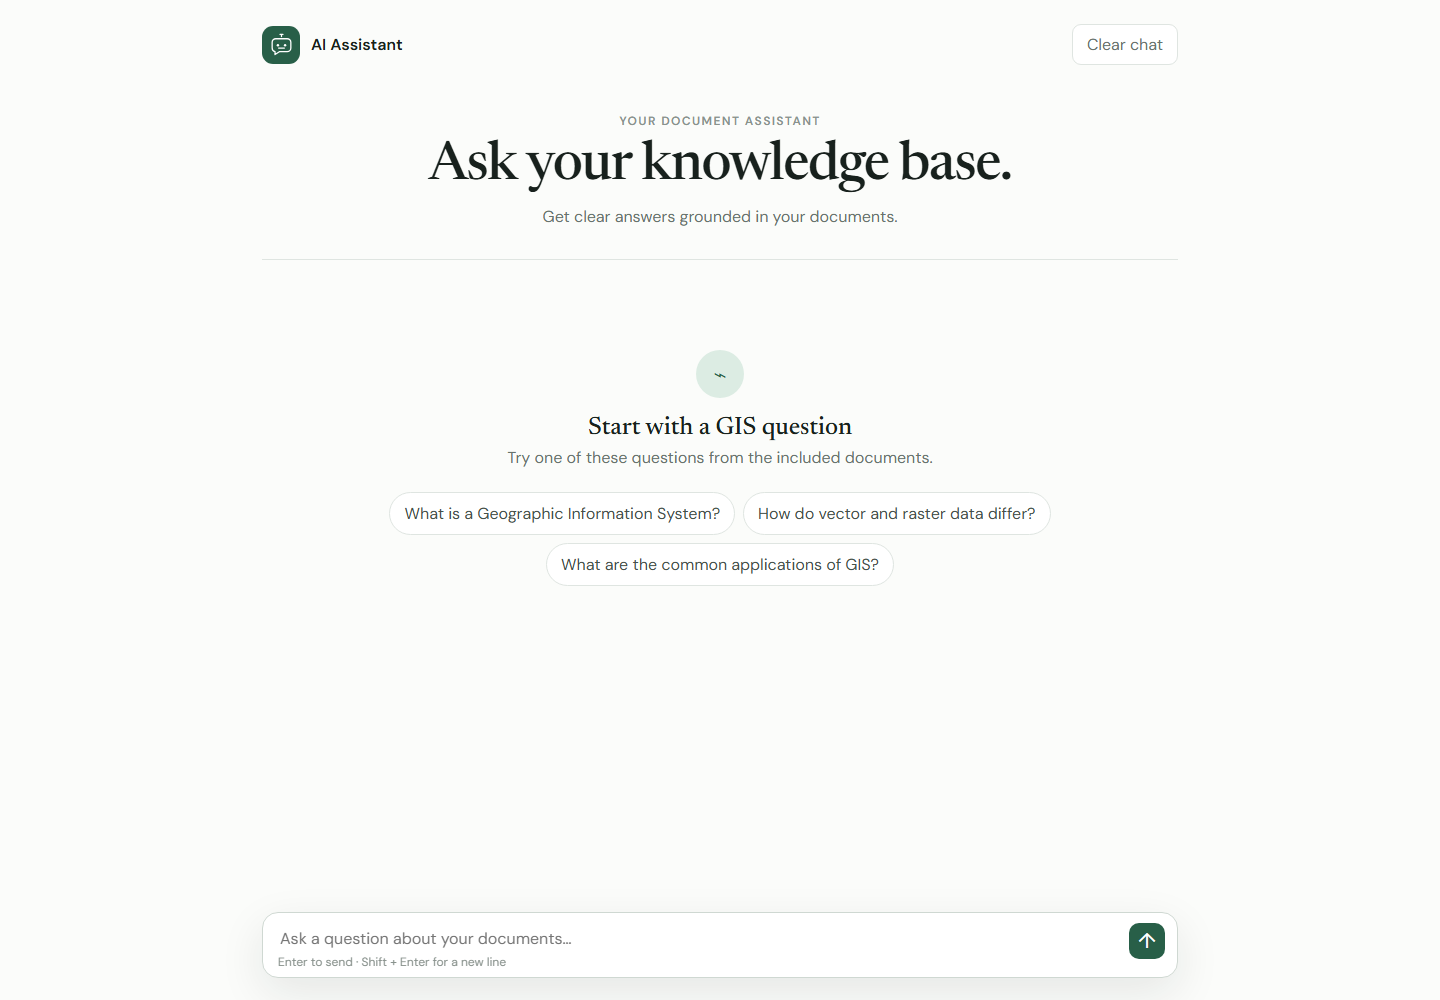
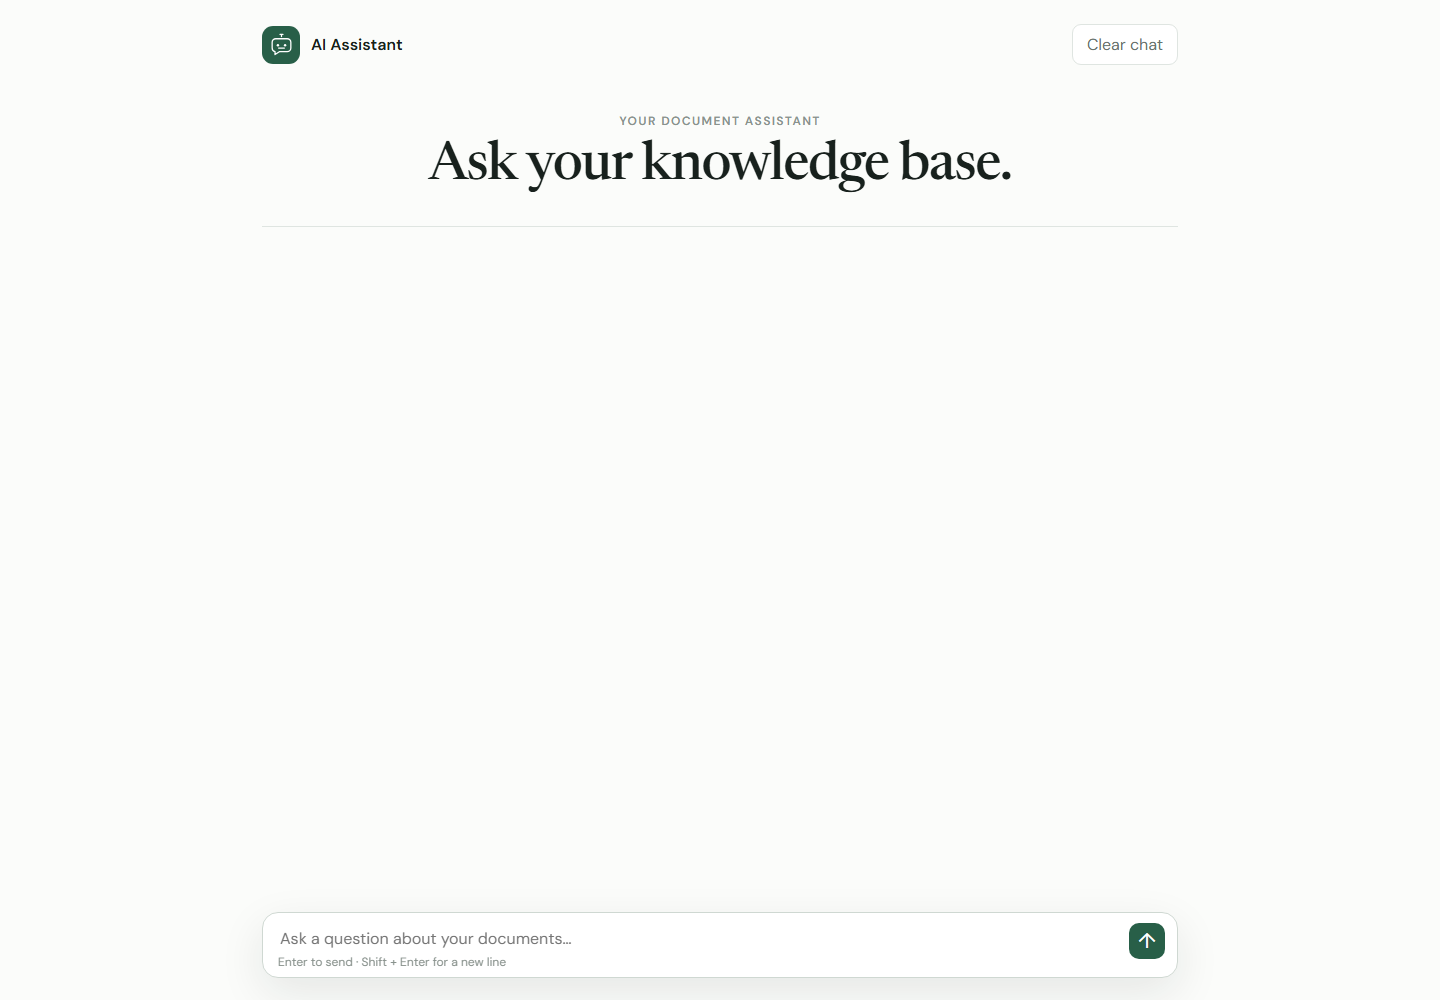
Simplify assistant welcome screen

diff --git a/advanced rag/frontend/index.html b/advanced rag/frontend/index.html
@@ -19,12 +19,8 @@
       </a>
       <button id="clear" class="clear-button" type="button" aria-label="Clear chat">Clear chat</button>
     </div>
-    <header><div class="hero-copy"><p class="eyebrow">Your document assistant</p><h1>Ask your knowledge base.</h1><p class="lede">Get clear answers grounded in your documents.</p></div></header>
-    <section id="conversation" class="conversation" aria-live="polite">
-      <div id="empty" class="empty"><div class="orb">⌁</div><h2>Start with a GIS question</h2><p>Try one of these questions from the included documents.</p>
-        <div class="suggestions"><button>What is a Geographic Information System?</button><button>How do vector and raster data differ?</button><button>What are the common applications of GIS?</button></div>
-      </div>
-    </section>
+    <header><div class="hero-copy"><p class="eyebrow">Your document assistant</p><h1>Ask your knowledge base.</h1></div></header>
+    <section id="conversation" class="conversation" aria-live="polite"></section>
     <form id="chatForm" class="composer"><textarea id="question" rows="1" maxlength="2000" placeholder="Ask a question about your documents…" required></textarea><button id="send" type="submit">↑</button><p>Enter to send · Shift + Enter for a new line</p></form>
   </main>
 </div><script src="/static/app.js" defer></script>

diff --git a/advanced rag/frontend/styles.css b/advanced rag/frontend/styles.css
@@ -86,17 +86,7 @@ header {
 .hero-copy { max-width: 720px; margin: 0 auto; }
 .eyebrow { margin: 0 0 10px; color: #89928d; font-size: 12px; font-weight: 600; letter-spacing: .12em; text-transform: uppercase; }
 h1 { margin: 0; font: 500 clamp(34px, 5vw, 54px)/1.02 "Newsreader", serif; letter-spacing: -.025em; }
-.lede { margin: 12px 0 0; color: var(--muted); font-size: 16px; }
-
 .conversation { padding: 34px 0; display: grid; gap: 24px; }
-.empty { text-align: center; padding: 56px 10px; }
-.orb { margin: auto; width: 48px; height: 48px; display: grid; place-items: center; color: var(--green); background: var(--mint); border-radius: 50%; font-size: 23px; }
-h2 { margin: 18px 0 6px; font: 500 25px "Newsreader", serif; }
-.empty p { margin: 0; color: var(--muted); }
-.suggestions { display: flex; flex-wrap: wrap; justify-content: center; gap: 8px; margin-top: 24px; }
-.suggestions button { border: 1px solid var(--line); background: white; color: #46514b; padding: 10px 14px; border-radius: 99px; }
-.suggestions button:hover { border-color: #aebdb4; background: var(--panel); }
-
 .message { max-width: 82%; }
 .message.user { justify-self: end; background: var(--green); color: white; padding: 12px 16px; border-radius: 16px 16px 3px 16px; }
 .message.assistant { justify-self: start; width: 82%; }

diff --git a/advanced rag/frontend/app.js b/advanced rag/frontend/app.js
@@ -11,7 +11,6 @@ function escapeHtml(value) {
 }
 
 function addMessage(role, text, result = null) {
-  $("#empty")?.remove();
   const article = document.createElement("article");
   article.className = `message ${role}`;
 
@@ -79,13 +78,6 @@ question.addEventListener("keydown", (event) => {
   }
 });
 
-document.querySelectorAll(".suggestions button").forEach((button) => {
-  button.addEventListener("click", () => {
-    question.value = button.textContent;
-    $("#chatForm").requestSubmit();
-  });
-});
-
 $("#clear").addEventListener("click", async () => {
   await api("/api/clear", {
     method: "POST",
@@ -93,4 +85,3 @@ $("#clear").addEventListener("click", async () => {
   });
   location.reload();
 });
-
